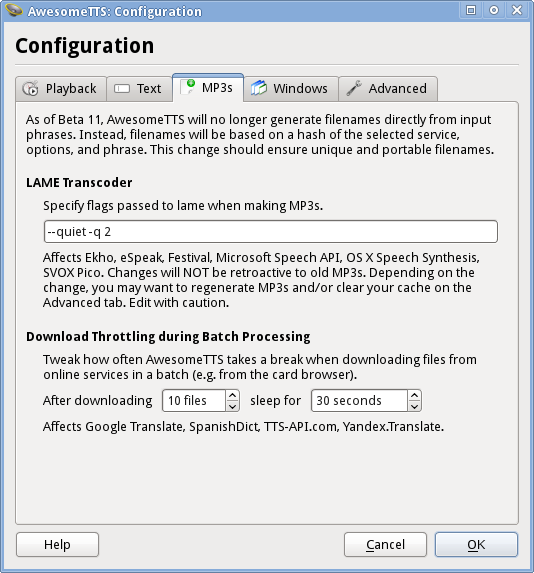
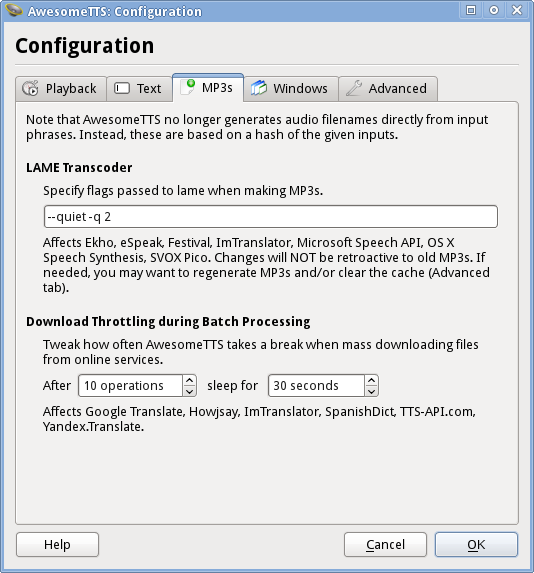
Update documentation for ImTranslator
Adds to README, rewords throttling information on the configuration
screen, and adds page to the website.

Changed region(s): [[0.03, 0.178, 0.9288, 0.7714], [0.2097, 0.1187, 0.2397, 0.178]]

diff --git a/addon/awesometts/gui/configurator.py b/addon/awesometts/gui/configurator.py
@@ -378,7 +378,7 @@ class Configurator(Dialog):
         threshold.setObjectName('throttle_threshold')
         threshold.setRange(5, 1000)
         threshold.setSingleStep(5)
-        threshold.setSuffix(" files")
+        threshold.setSuffix(" operations")
 
         sleep = QtGui.QSpinBox()
         sleep.setObjectName('throttle_sleep')
@@ -387,7 +387,7 @@ class Configurator(Dialog):
         sleep.setSuffix(" seconds")
 
         hor = QtGui.QHBoxLayout()
-        hor.addWidget(Label("After downloading "))
+        hor.addWidget(Label("After "))
         hor.addWidget(threshold)
         hor.addWidget(Label(" sleep for "))
         hor.addWidget(sleep)

diff --git a/addon/README.md b/addon/README.md
@@ -9,6 +9,7 @@ services:
 - Festival (`festival`, `text2wave`)
 - Google Translate
 - Howjsay
+- ImTranslator
 - OS X Speech Synthesis Manager (`say`)
 - Microsoft Speech API
 - SpanishDict.com
